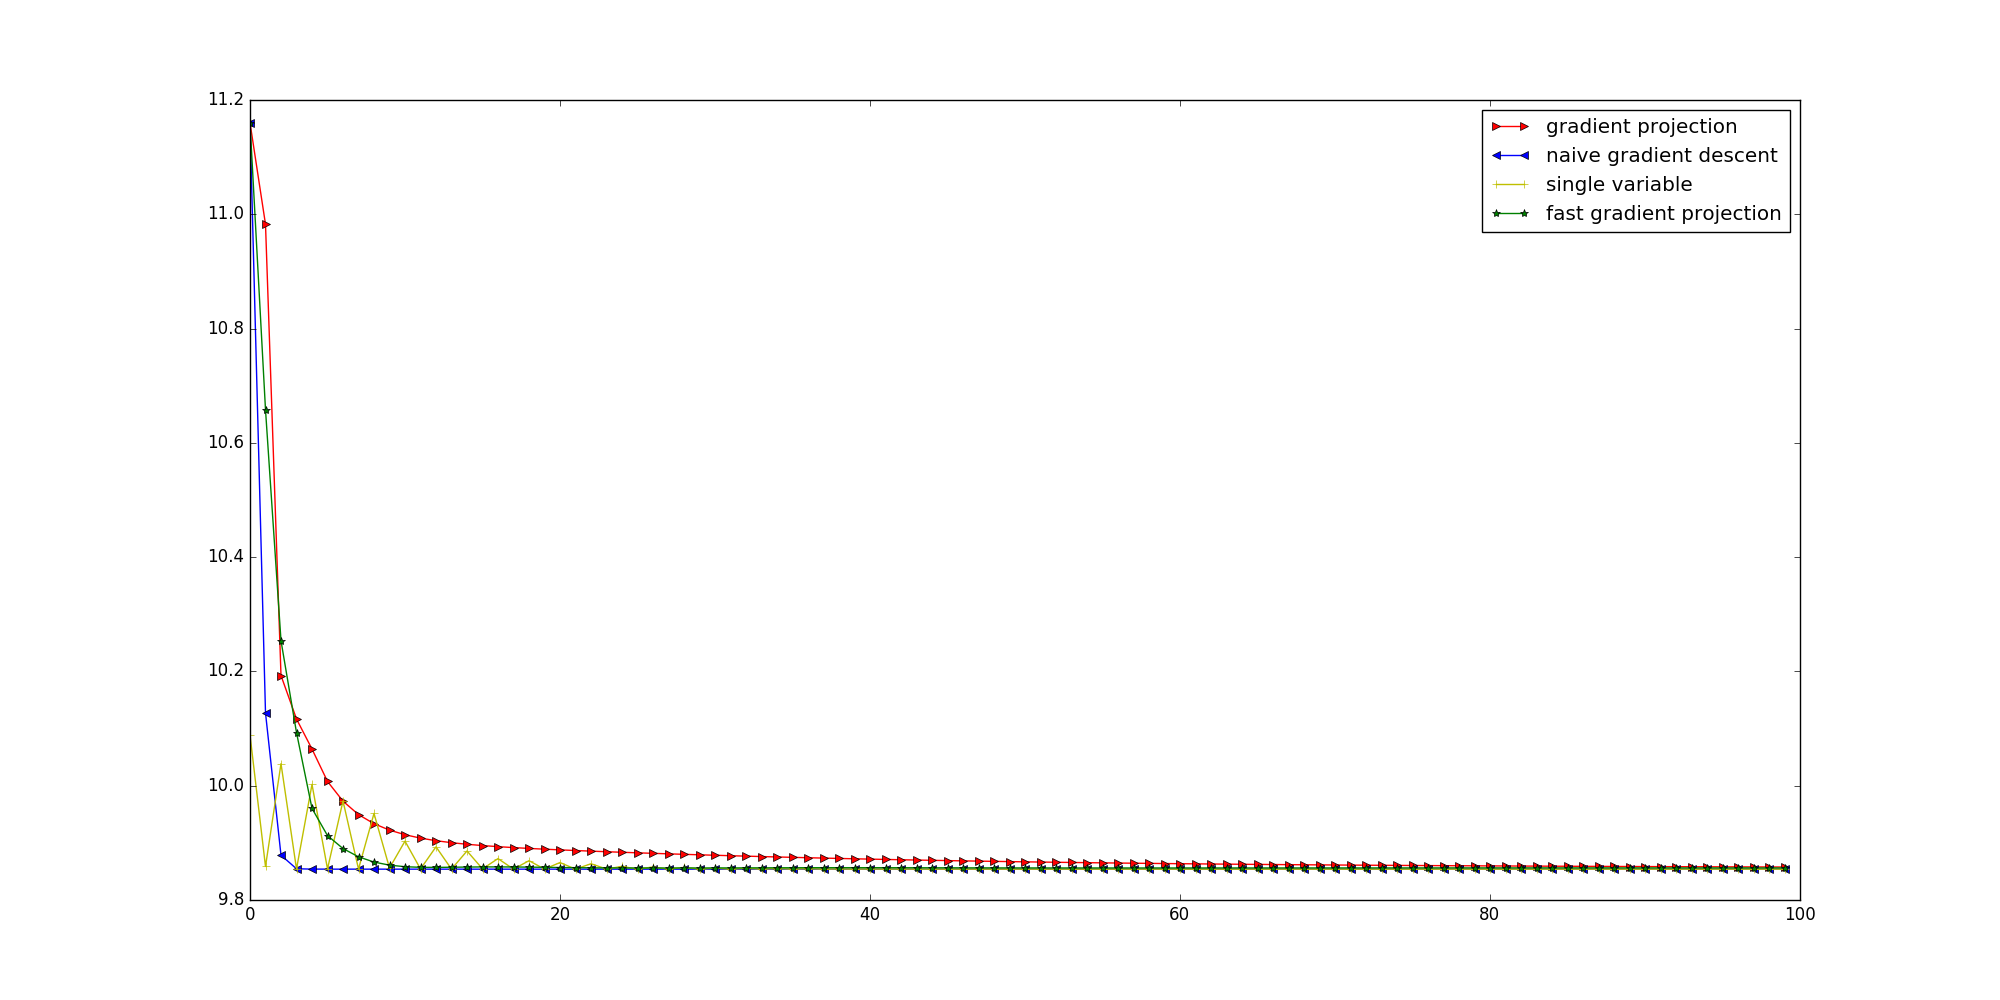
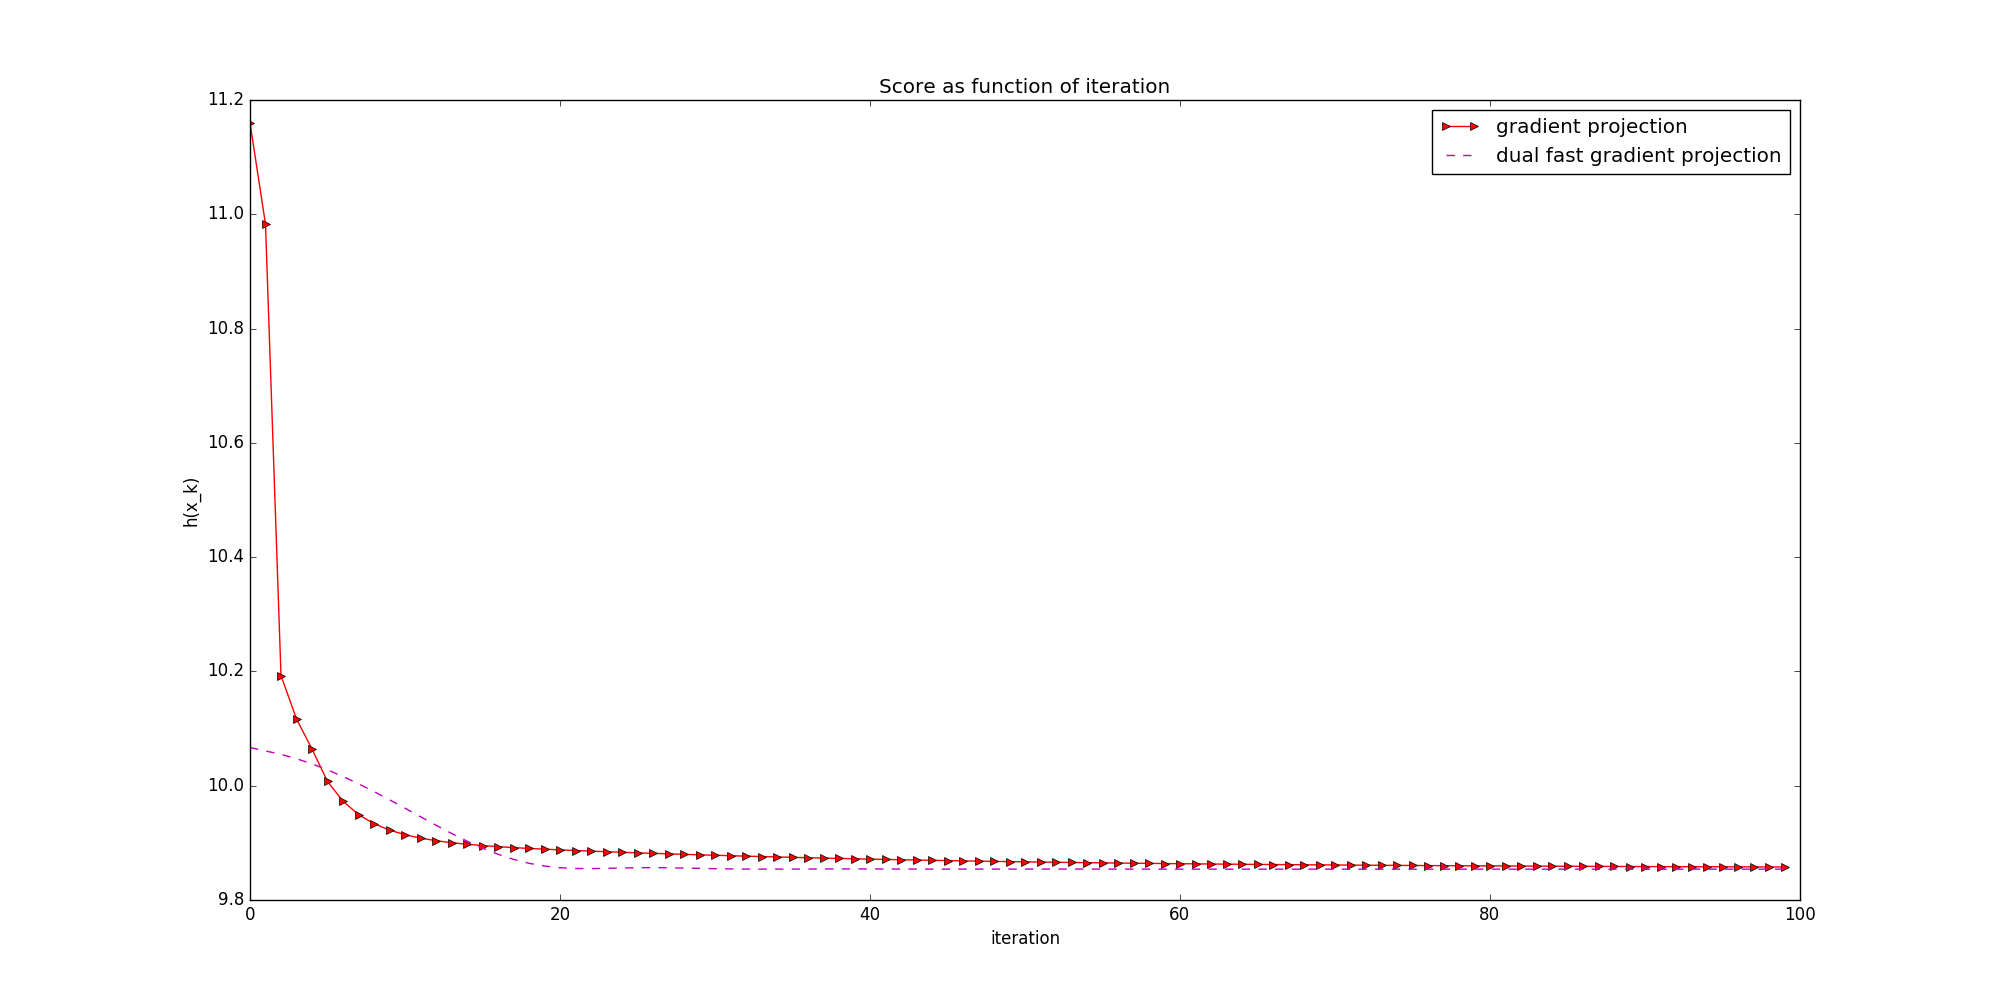
Refactor - solve using the dual space.

diff --git a/hw3/q1/compare_methods.py b/hw3/q1/compare_methods.py
@@ -5,7 +5,7 @@ import numpy as np
 from matplotlib import pyplot as plt
 
 from hw3.q1.methods import fast_gradient_projection, gradient_projection, single_variable_search, naive_gradient_descent
-from hw3.q1.utils import q1_search_state
+from hw3.q1.utils import q1_search_state, q1_dual_search_state
 
 
 def best_value():
@@ -24,47 +24,79 @@ def Q1_comparison():
     #
     state0 = q1_search_state.Q1State.random_state()
 
+    state_dual = q1_dual_search_state.Q1DualState.random_state()
+
     gradient_projection_5_vars = gradient_projection.GradientProjectionMethod(state0)
-    naive_3_vars = naive_gradient_descent.GradientProjectionMethod(state0)
+
+    gradient_projection_dual = gradient_projection.GradientProjectionMethod(state_dual)
+    dual_fgp = fast_gradient_projection.FastGradientProjectionMethod(state_dual)
+
+    naive_3_vars = naive_gradient_descent.NaiveGradientDescent(state0)
     single_var = single_variable_search.SingleVarSearch(state0.x2)
     fgp = fast_gradient_projection.FastGradientProjectionMethod(state0)
 
+    scores_primal = collections.defaultdict(list)
     scores = collections.defaultdict(list)
 
     for i in xrange(1000):
         for (method, eta) in [(gradient_projection_5_vars, 1. / math.sqrt(i + 2)),
+                              (gradient_projection_dual, 0.2 / math.sqrt(i + 2)),
                               (naive_3_vars, 0.5 / math.sqrt(i + 2)),
                               (single_var, None),
+                              (dual_fgp, None),
                               (fgp,  None)]:
-            scores[method].append(method.score())
+            scores_primal[method].append(method.full_solution().score_primal())
+            scores[method].append(method.full_solution().score())
             method.step(eta)
+
+    print "Final Solutions:\n=============="
+    print "Dual fast gradient projection solution:"
+    print dual_fgp.full_solution().as_q1_state()
+    print "Primal gradient projection solution:"
+    print gradient_projection_5_vars.full_solution()
+
+    # Plot required by exercise
     plt.figure(figsize=(20, 10))
-
-    plt.plot(scores[gradient_projection_5_vars][:100], 'r->', label='gradient projection')
-    plt.plot(scores[naive_3_vars][:100], 'b-<', label='naive gradient descent')
-    plt.plot(scores[single_var][:100], 'y-+', label='single variable')
-    plt.plot(scores[fgp][:100], 'g-*', label='fast gradient projection')
-
+    plt.title("Score as function of iteration")
+    plt.xlabel("iteration")
+    plt.ylabel("h(x_k)")
+    plt.plot(scores_primal[gradient_projection_5_vars][:100], 'r->', label='gradient projection')
+    plt.plot(scores_primal[dual_fgp][:100], 'm--', label='dual fast gradient projection')
     plt.legend()
     plt.savefig("q1c_first_100_iterations.png")
 
+    # Plot of all methods.
+    plt.figure(figsize=(20, 10))
+    plt.plot(scores_primal[gradient_projection_5_vars][:100], 'r->', label='gradient projection')
+    plt.plot(scores_primal[gradient_projection_dual][:100], 'c->', label='gradient projection dual')
+    plt.plot(scores_primal[naive_3_vars][:100], 'b-<', label='naive gradient descent')
+    plt.plot(scores_primal[single_var][:100], 'y-+', label='single variable')
+    plt.plot(scores_primal[fgp][:100], 'g-*', label='fast gradient projection')
+    plt.plot(scores_primal[dual_fgp][:100], 'm--', label='dual fast gradient projection')
+    plt.legend()
+    plt.savefig("q1c_first_100_iterations_full_plot.png")
+
     h_best = best_value()
 
+    # Plot required by exercise.
     plt.figure(figsize=(20, 10))
-
-    plt.semilogy(np.array(scores[gradient_projection_5_vars]) - h_best, 'r->', label='gradient projection')
-    # plt.semilogy(np.array(scores[naive_3_vars]) - h_best, 'b-<', label='naive gradient descent')
-    # plt.semilogy(np.array(scores[single_var]) - h_best, 'y-+', label='single variable')
-    plt.semilogy(np.array(scores[fgp]) - h_best, 'g-*', label='fast gradient projection')
-
+    plt.title("Score minus best_score")
+    plt.xlabel("iteration")
+    plt.ylabel("h(x_k) - h*")
+    plt.semilogy(np.array(scores_primal[dual_fgp]) - h_best, 'm--', label='dual fast gradient projection')
+    plt.semilogy(np.array(scores_primal[gradient_projection_5_vars]) - h_best, 'r->', label='gradient projection')
     plt.legend()
-
-    plt.savefig("q1d_first_1000_iterations_diff_from_best.png")
-
-    print gradient_projection_5_vars.full_solution(), gradient_projection_5_vars.score()
-    print naive_3_vars.full_solution(), naive_3_vars.score()
-    print single_var.full_solution(), single_var.score()
-    print fgp.full_solution(), fgp.score()
+    plt.savefig("q1d_first_1000_iterations_diff_from_best_full_plot.png")
+    # Plot of all methods.
+    plt.figure(figsize=(20, 10))
+    plt.semilogy(np.array(scores_primal[gradient_projection_dual]) - h_best, 'c->', label='dual gradient projection')
+    plt.semilogy(np.array(scores_primal[dual_fgp]) - h_best, 'm--', label='dual fast gradient projection')
+    plt.semilogy(np.array(scores_primal[gradient_projection_5_vars]) - h_best, 'r->', label='gradient projection')
+    plt.semilogy(np.array(scores[naive_3_vars]) - h_best, 'b-<', label='naive gradient descent')
+    plt.semilogy(np.array(scores[single_var]) - h_best, 'y-+', label='single variable')
+    plt.semilogy(np.array(scores_primal[fgp]) - h_best, 'g-*', label='fast gradient projection')
+    plt.legend()
+    plt.savefig("q1d_first_1000_iterations_diff_from_best_full_plot.png")
 
 
 def main():

diff --git a/hw3/q1/utils/q1_dual_search_state.py b/hw3/q1/utils/q1_dual_search_state.py
@@ -1,0 +1,74 @@
+import numpy as np
+from hw3.q1.utils import projection
+from hw3.q1.utils import q1_search_state
+from hw3.q1.utils.q1_search_state import D1, D2, D3
+
+
+class Q1DualState(object):
+    LIPSCHITZ_L = 425.
+
+    def __init__(self, l1, l2):
+        self.l1 = l1
+        self.l2 = l2
+
+    def as_q1_state(self):
+        x1 = 2 / (2. + self.l1)
+        x2 = 4 / (2. + self.l1 + self.l2)
+        x3 = 3 / (1. + self.l2)
+        y1 = 1 / self.l1 ** 2
+        y2 = 1 / self.l2 ** 2
+        return q1_search_state.Q1State(x1, x2, x3, y1, y2)
+
+    def score_primal(self):
+        return self.as_q1_state().score()
+
+    def score_penalty(self):
+        primal = self.as_q1_state()
+        return (self.l1 * (primal.x1 ** 2 + primal.x2 ** 2 - primal.y1) +
+                self.l2 * (primal.x2 ** 2 + primal.x3 ** 2 - primal.y2))
+
+    def score(self):
+        return self.score_primal() + self.score_penalty()
+
+    def gradient_penalty(self):
+        primal = self.as_q1_state()
+        a = primal.x1 ** 2 + primal.x2 ** 2 + primal.y1
+        common = -0.5 * primal.x2 ** 3
+        b = self.l1 * (-primal.x1 ** 3 + common)
+        c = self.l2 * common
+        val1 = a + b + c
+        a = self.l1 * common + primal.x3 ** 2 + primal.x2 ** 2
+        b = self.l2 * (-18 / 27. * primal.x3 ** 3 + common)
+        c = primal.y2
+        val2 = a + b + c
+        return np.array([val1, val2], dtype=np.float64)
+
+    def gradient_primal(self):
+        diff1 = 4 * (2 / (2. + self.l1) - D1) * (-2 / (2. + self.l1) ** 2)
+        diff2 = 4 * (4 / (2. + self.l1 + self.l2) - D2) * (-4 / (2. + self.l1 + self.l2) ** 2)
+        diff3 = 2 * (3 / (1. + self.l2) - D3) * (-3 / (1. + self.l2) ** 2)
+        val1 = diff1 + diff2 - 2. / (self.l1 ** 2)
+        val2 = diff2 + diff3 - 2. / (self.l2 ** 2)
+        return np.array([val1, val2], dtype=np.float64)
+
+    def gradient(self):
+        return self.gradient_penalty() + self.gradient_primal()
+
+    def as_vec(self):
+        return np.array([self.l1, self.l2], dtype=np.float64)
+
+    @classmethod
+    def random_state(cls):
+        # Add 1 to make sure x2 >= 1
+        vec = 1. / 5 ** 0.5 + np.random.random(size=2)
+        return Q1DualState(*vec.tolist())
+
+    @classmethod
+    def from_vec(cls, vec):
+        return cls(*vec.tolist())
+
+    def __str__(self):
+        return "l1={} l2={}".format(self.l1, self.l2)
+
+    def projection(self):
+        return Q1DualState(*projection.project_dual(self.l1, self.l2))

diff --git a/hw3/q1/utils/q1_search_state.py b/hw3/q1/utils/q1_search_state.py
@@ -1,10 +1,13 @@
 import numpy as np
 import math
+
+from hw3.q1.utils import projection
+
 D1, D2, D3 = 1, 2, 3
 
 
 class Q1State(object):
-    # L=4 is the lipschitz constant for the function:
+    # L=4 is the Lipschitz constant for the function:
     #   2 * (x_1 - 1) ** 2 + 2 * (x_2 - 2) ** 2 + (x_3 - 1) ** 2 + sqrt(y1) + sqrt(y2)
     #   in the domain x2 >= 1, y_1 >= x1 ** 2 + x2 ** 2, y2 >= x2 ** 2 + x3 ** 2
     LIPSCHITZ_L = 4
@@ -16,19 +19,26 @@ class Q1State(object):
         self.y1 = y1
         self.y2 = y2
 
-    def score(self):
+    def full_score(self):
         square_part = 2 * (self.x1 - D1) ** 2 + 2 * (self.x2 - D2) ** 2 + (self.x3 - D3) ** 2
-        y1 = self.x1 ** 2 + self.x2 ** 2
-        y2 = self.x2 ** 2 + self.x3 ** 2
-        root_part = 2 * math.sqrt(y1) + 2 * math.sqrt(y2)
+        root_part = 2 * math.sqrt(self.y1) + 2 * math.sqrt(self.y2)
         return square_part + root_part
 
-    def subgradient_5_variables(self):
+    def score_primal(self):
+        return self.score()
+
+    def score(self):
+        y1 = self.x1 ** 2 + self.x2 ** 2
+        y2 = self.x2 ** 2 + self.x3 ** 2
+        full_state = Q1State(self.x1, self.x2, self.x3, y1, y2)
+        return full_state.full_score()
+
+    def gradient(self):
         assert self.y1 != 0 and self.y2 != 0
         return np.array([4 * (self.x1 - D1), 4 * (self.x2 - D2), 2 * (self.x3 - D3),
                          1. / math.sqrt(self.y1), 1. / math.sqrt(self.y2)], dtype=np.float64)
 
-    def subgradient_3_variables(self):
+    def naive_gradient_3_variables(self):
         assert self.y1 != 0 and self.y2 != 0
         y1 = self.x1 ** 2 + self.x2 ** 2
         y2 = self.x2 ** 2 + self.x3 ** 2
@@ -50,4 +60,7 @@ class Q1State(object):
         return cls(*vec.tolist())
 
     def __str__(self):
-        return "x1={} x2={} x3={} y1={} y2={}".format(self.x1, self.x2, self.x3, self.y1, self.y2)
+        return "x1={} x2={} x3={} x4={} x5={}".format(self.x1, self.x2, self.x3, self.x2, self.x1)
+
+    def projection(self):
+        return Q1State(*projection.project_to_parabloids_intersection(*self.as_vec()))

diff --git a/hw3/q1/utils/test_dual.py b/hw3/q1/utils/test_dual.py
@@ -1,0 +1,40 @@
+import numpy as np
+import unittest
+from hw3.q1.utils import q1_dual_search_state
+
+
+class TestDualGradient(unittest.TestCase):
+    def test_gradient_primal(self):
+        for j in xrange(20):
+            state = q1_dual_search_state.Q1DualState.random_state()
+            x = state.as_vec()
+            epsilon = 1e-5
+            h = np.zeros_like(x)
+            fx = state.as_q1_state().full_score()
+            gradient = state.gradient_primal()
+            for i in xrange(2):
+                print i
+                h[i] = epsilon
+                other = q1_dual_search_state.Q1DualState.from_vec(x + h)
+                f_x_plus_h = other.as_q1_state().full_score()
+                gradient_i = (f_x_plus_h - fx) / epsilon
+                self.assertAlmostEqual(gradient_i, gradient[i], places=3)
+                h[i] = 0
+
+    def test_gradient_penalty(self):
+        for j in xrange(20):
+            state = q1_dual_search_state.Q1DualState.random_state()
+            x = state.as_vec()
+            epsilon = 1e-5
+            h = np.zeros_like(x)
+            fx = state.score_penalty()
+            gradient = state.gradient_penalty()
+            for i in xrange(2):
+                print i
+                h[i] = epsilon
+                other = q1_dual_search_state.Q1DualState.from_vec(x + h)
+                f_x_plus_h = other.score_penalty()
+                gradient_i = (f_x_plus_h - fx) / epsilon
+                self.assertAlmostEqual(gradient_i, gradient[i], places=3)
+                h[i] = 0
+

diff --git a/hw3/q1/methods/fast_gradient_projection.py b/hw3/q1/methods/fast_gradient_projection.py
@@ -1,25 +1,24 @@
 import math
 from hw3.q1.methods import abstract_search_method
-from hw3.q1.utils import projection, q1_search_state
 
 
 class FastGradientProjectionMethod(abstract_search_method.SearchMethod):
     def __init__(self, search_state):
-        assert isinstance(search_state, q1_search_state.Q1State)
         self._tk = 1.
-        self._L = q1_search_state.Q1State.LIPSCHITZ_L
+        self._state_cls = search_state.__class__
+        self._L = self._state_cls.LIPSCHITZ_L
         self._yk = search_state.as_vec()
         self._xk = search_state.as_vec()
 
     def step(self, _):
-        subgradient = q1_search_state.Q1State.from_vec(self._yk).subgradient_5_variables()
-        shifted = self._yk - 1. / self._L * subgradient
-        shifted_state = q1_search_state.Q1State.from_vec(shifted)
+        gradient = self._state_cls.from_vec(self._yk).gradient()
+        shifted = self._yk - 1. / self._L * gradient
+        shifted_state = self._state_cls.from_vec(shifted)
         prev_xk = self._xk
-        self._xk = projection.project_to_parabloids_intersection(shifted_state).as_vec()
+        self._xk = shifted_state.projection().as_vec()
         prev_tk = self._tk
         self._tk = (1. + math.sqrt(1 + 4 * self._tk ** 2)) / 2.
         self._yk = self._xk + (prev_tk - 1) / self._tk * (self._xk - prev_xk)
 
     def full_solution(self):
-        return q1_search_state.Q1State.from_vec(self._xk)
+        return self._state_cls.from_vec(self._xk)

diff --git a/hw3/q1/utils/projection.py b/hw3/q1/utils/projection.py
@@ -6,7 +6,7 @@ from __future__ import division
 
 import numpy as np
 
-from hw3.q1.utils import equation_solver, q1_search_state
+from hw3.q1.utils import equation_solver
 
 
 def project_to_parabloid_epigraph(x0, y0, z0):
@@ -67,7 +67,11 @@ def project_to_parabloid_and_y_greater_than1(x, y, z):
     return x, y, z
 
 
-def project_to_parabloids_intersection(q1a_state):
-    x1, x2, y1 = project_to_parabloid_and_y_greater_than1(q1a_state.x1, q1a_state.x2, q1a_state.y1)
-    x3, x2, y2 = project_to_parabloid_and_y_greater_than1(q1a_state.x3, x2, q1a_state.y2)
-    return q1_search_state.Q1State(x1, x2, x3, y1, y2)
+def project_to_parabloids_intersection(x1, x2, x3, y1, y2):
+    x1, x2, y1 = project_to_parabloid_and_y_greater_than1(x1, x2, y1)
+    x3, x2, y2 = project_to_parabloid_and_y_greater_than1(x3, x2, y2)
+    return x1, x2, x3, y1, y2
+
+
+def project_dual(l1, l2):
+    return max(l1, 1 / 5. ** 0.5), max(l2, 1 / 13. ** 0.5)

diff --git a/hw3/q1/methods/naive_gradient_descent.py b/hw3/q1/methods/naive_gradient_descent.py
@@ -2,7 +2,7 @@ from hw3.q1.methods import abstract_search_method
 from hw3.q1.utils import q1_search_state
 
 
-class GradientProjectionMethod(abstract_search_method.SearchMethod):
+class NaiveGradientDescent(abstract_search_method.SearchMethod):
     def __init__(self, search_state):
         self._state = search_state
 
@@ -10,6 +10,6 @@ class GradientProjectionMethod(abstract_search_method.SearchMethod):
         return self._state
 
     def step(self, eta):
-        subgradient = self._state.subgradient_3_variables()
-        shifted = self._state.as_vec() - eta * subgradient
+        gradient = self._state.naive_gradient_3_variables()
+        shifted = self._state.as_vec() - eta * gradient
         self._state = q1_search_state.Q1State.from_vec(shifted)

diff --git a/hw3/q1/methods/gradient_projection.py b/hw3/q1/methods/gradient_projection.py
@@ -10,8 +10,7 @@ class GradientProjectionMethod(abstract_search_method.SearchMethod):
         return self._state
 
     def step(self, eta):
-        subgradient = self._state.subgradient_5_variables()
-        shifted = self._state.as_vec() - eta * subgradient
-        state_shifted = q1_search_state.Q1State.from_vec(shifted)
-        self._state = projection.project_to_parabloids_intersection(state_shifted)
-
+        gradient = self._state.gradient()
+        shifted = self._state.as_vec() - eta * gradient
+        state_shifted = self._state.from_vec(shifted)
+        self._state = state_shifted.projection()
